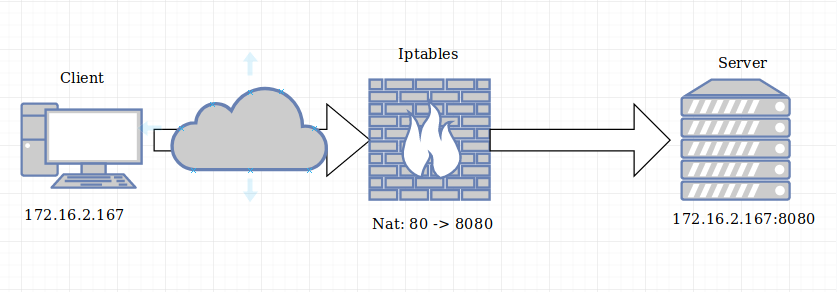
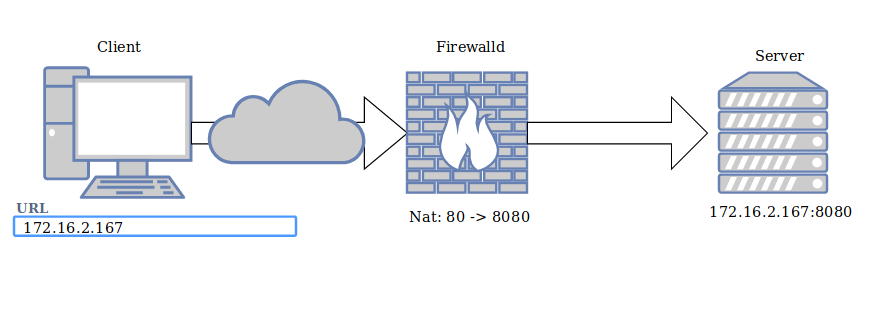
fix doc tomcat part 1

diff --git a/HuanTT/Tomcat/docs/change_port.md b/HuanTT/Tomcat/docs/change_port.md
@@ -2,8 +2,8 @@ Cách chạy Apache Tomcat ở cổng 80
 ===
 ## Mục lục
 1. [Mục địch](#1-Mục-đích)
-2. [Thay đổi quyền sở hữu cho tomcat.service](#2-Thay-đổi-quyền-sở-hữu-cho-tomcat.service)
-3. [Tiến hành Nat port bằng iptables](#3-Tiến-hành-Nat-port-bằng-iptables)
+2. [Cách 1: Thay đổi quyền sở hữu cho tomcat.service](#2-cách-1-Thay-đổi-quyền-sở-hữu-cho-tomcat.service)
+3. [Cách 2: Tiến hành Nat port bằng firewalld](#3-Cách-2-Tiến-hành-Nat-port-bằng-firewalld)
 4. [Tài liệu tham khảo](#4-tài-liệu-tham-khảo)
 
 ## 1. Mục đích
@@ -13,10 +13,10 @@ Thông thường, cổng mặc định khi chạy apache tomcat là cổng 8080.
 
 Vì vậy, để khắc phục vấn đề này, ta sẽ cho apache tomcat chạy ở cổng mặc định của giao thức http là 80. Có rất nhiều cách để làm được điều này, trên đây mình xin hướng dẫn 2 cách sau.
 
-## 2. Thay đổi quyền sở hữu cho tomcat.service
+## 2. Cách 1: Thay đổi quyền sở hữu cho tomcat.service
 
 Cổng 80 là cổng chỉ được phép chạy dưới quyền root. Nếu apache tomcat quản lí bởi người dùng tomcat sẽ không chạy được cổng này. Vì vậy ta sẽ đổi quyền sở hữu cho apache tomcat sang root. Cách này có đặc điểm sau:
-- Ưu điểm: Dễ làm! Phù hợp khi đổi cổng lớn hơn 1024.
+- Ưu điểm: Dễ làm!
 - Nhược điểm: Sẽ rất nguy hiển khi đặt root làm người dùng sở hữu cho Tomcat.
 
 ### Bước 1: Đổi port sang 80
@@ -37,7 +37,7 @@ Ta cần tìm file service của tomcat để thay đổi quyền. Như bài hư
 $ sed -i 's/User=tomcat/User=root/g' /etc/systemd/system/tomcat.service
 ```
 
-### Bước 3: Reset lại service.
+### Bước 3: reset lại service.
 
 Sau khi thay đổi file service, ta tiến hành reload và restart lại nó như sau:
 ```
@@ -47,18 +47,16 @@ $ systemctl restart tomcat
 
 Như vậy là ta đã hoàn toàn đổi cổng tomcat sang 80.
 
-## 3. Tiến hành Nat port bằng iptables
+## 3. Cách 2: Tiến hành Nat port bằng firewalld
 
-Một cách hay hơn và an toàn hơn cách trên đó là sử dụng iptables.
+Một cách hay hơn và an toàn hơn cách trên đó là sử dụng firewalld.
 
 ![image](../images/tomcat05.png)
 
-Với cách này, apache tomcat vẫn sẽ nghe tại cổng 8080, mọi lưu lượng sẽ được chuyển hướng bằng iptables. Bạn sẽ không phải thay đổi bất cứ cấu hình nào của tomcat. Tất cả nhưng gì bạn phải làm chỉ là thêm rules cho iptables. Ta thực hiện lệnh như sau:
+Với cách này, apache tomcat vẫn sẽ nghe tại cổng 8080, mọi lưu lượng sẽ được chuyển hướng bằng firewalld. Bạn sẽ không phải thay đổi bất cứ cấu hình nào của tomcat. Ta thực hiện lệnh như sau:
 ```
-$ sudo iptables -t nat -I PREROUTING -p tcp --dport 80  -j REDIRECT --to-port 8080
-$ sudo iptables -L -n -t nat
-$ sudo /service iptables save
+$ firewall-cmd --zone=public --add-forward-port=port=80:proto=tcp:toport=8080.
 ```
-
+>Lưu ý: Bạn cũng có thể dùng iptables để nat port tuy nhiên phải tắt dịch vụ firewalld trước đó.
 ## 4. Tài liệu tham khảo
 1. [Hướng dẫn dổi tomcat port sang 80]()

diff --git a/HuanTT/Tomcat/docs/install_tomcat.md b/HuanTT/Tomcat/docs/install_tomcat.md
@@ -1,12 +1,15 @@
 Hướng dẫn cài đặt Tomcat trên CentOS 7
 ===
 ## Mục lục
+1. [Tổng quan](#1-Tổng-quan)
+2. [Hướng dẫn cài đặt](#2-Hướng-dẫn-cài-đặt)
+3. [Tài liệu tham khảo](#3-Tài-liệu-tham-khảo)
 ## 1. Tổng quan
 Tomcat là một phần mềm máy chủ mã nguồn mở được phát triển bởi **Apache Software Foundation (ASF)**. Tomcat được sử dụng để deploy các ứng dụng Java Web. 
 
 ![image](../images/tomcat00.png)
 
-Tomcat cung cấp các công cụ cho việc cấu hình quản lý nhưng cũng có thể được cấu hình bởi việc soạn thảo các file cấu hình bằng file xml. Trong bài này, mình sẽ hướng dẫn cài đặt bản Tomcat 9 trên máy ảo CentOS 7.
+Trong bài này, mình sẽ hướng dẫn cài đặt bản Tomcat 9 trên máy ảo CentOS 7.
 ## 2. Hướng dẫn cài đặt
 ### Bước 1: Cài đặt Java
 
@@ -41,7 +44,7 @@ $ wget http://www-us.apache.org/dist/tomcat/tomcat-9/v9.0.22/bin/apache-tomcat-9
 ```
 Tiến hành giải nén:
 ```
-$ sudo tar -zxvf apache-tomcat-9.0.22.tar.gz -C /opt/tomcat --strip-components=1
+$ sudo tar -zxvf apache-tomcat-9.0.22.tar.gz -C /opt/tomcat
 ```
 > Lưu ý: thư mục chứa dữ liệu đã giải nén nằm tại `/opt/tomcat`.
 
@@ -61,9 +64,9 @@ $ sudo chmod g+rwx bin
 $ sudo chmod g+r bin/*
 ```
 
-### Bước 5: Thiết lập tomcat thành đơn vị systemd
+### Bước 5: Thiết lập dịch vụ tomcat trong systemd
 
-Để thuận tiện cho việc quản lí và kiểm tra, bạn cần thiết lập đơn vị systemd cho tomcat.service.
+Để thuận tiện cho việc quản lí và kiểm tra, bạn cần thiết lập dịch vụ cho tomcat tại systemd.
 ```
 $ sudo vi /etc/systemd/system/tomcat.service
 ```
@@ -92,17 +95,9 @@ Group=tomcat
 [Install]
 WantedBy=multi-user.target
 ```
-Sau đó lưu và thoát khỏi chế độ edit: `!wq`.
+Sau đó lưu và thoát khỏi chế độ edit **`:wq`**.
 
-### Bước 6: Cài đặt Haveged - chương trình bảo mật
-
-Bạn có thể cài đặt haveged như sau:
-```
-$ sudo yum install haveged
-$ sudo systemctl start haveged.service
-$ sudo systemctl enable haveged.service
-```
-### Bước 7: Khởi chạy và test Tomcat
+### Bước 6: Khởi chạy và test Tomcat
 Đầu tiên, ta cần khởi chạy và thiết lập nó chạy cùng với hệ thống:
 ```
 $ systemctl start tomcat
